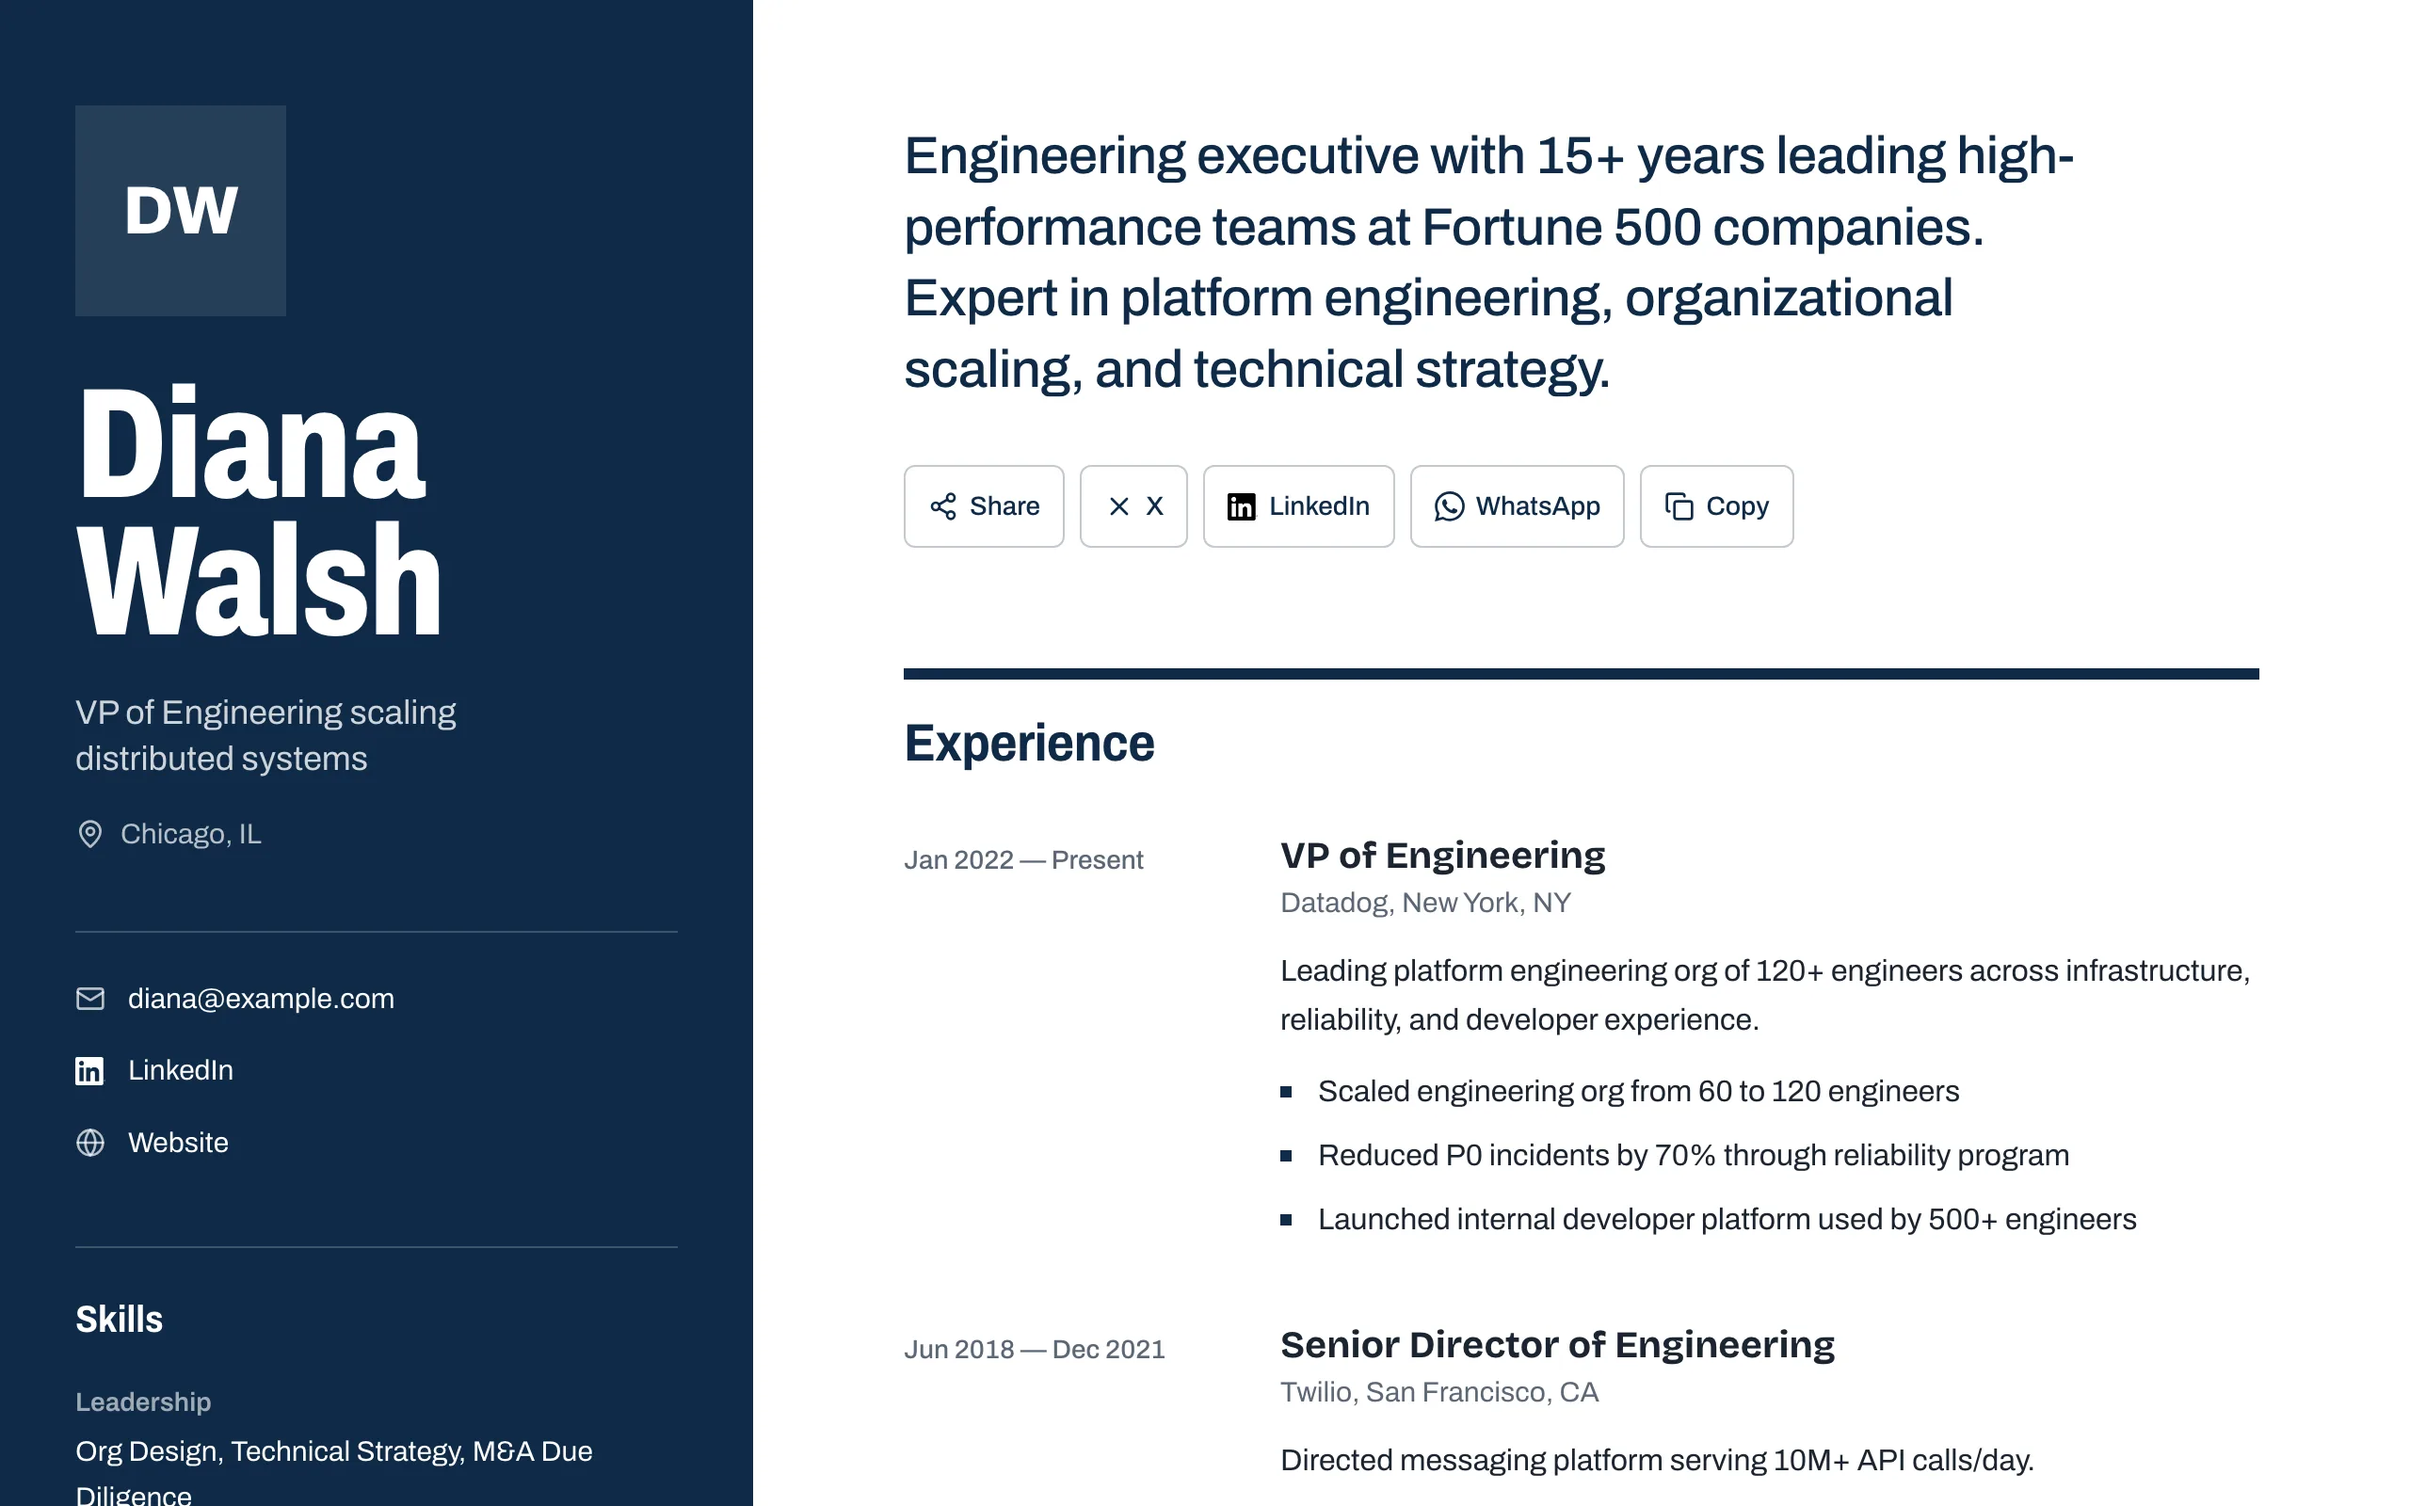
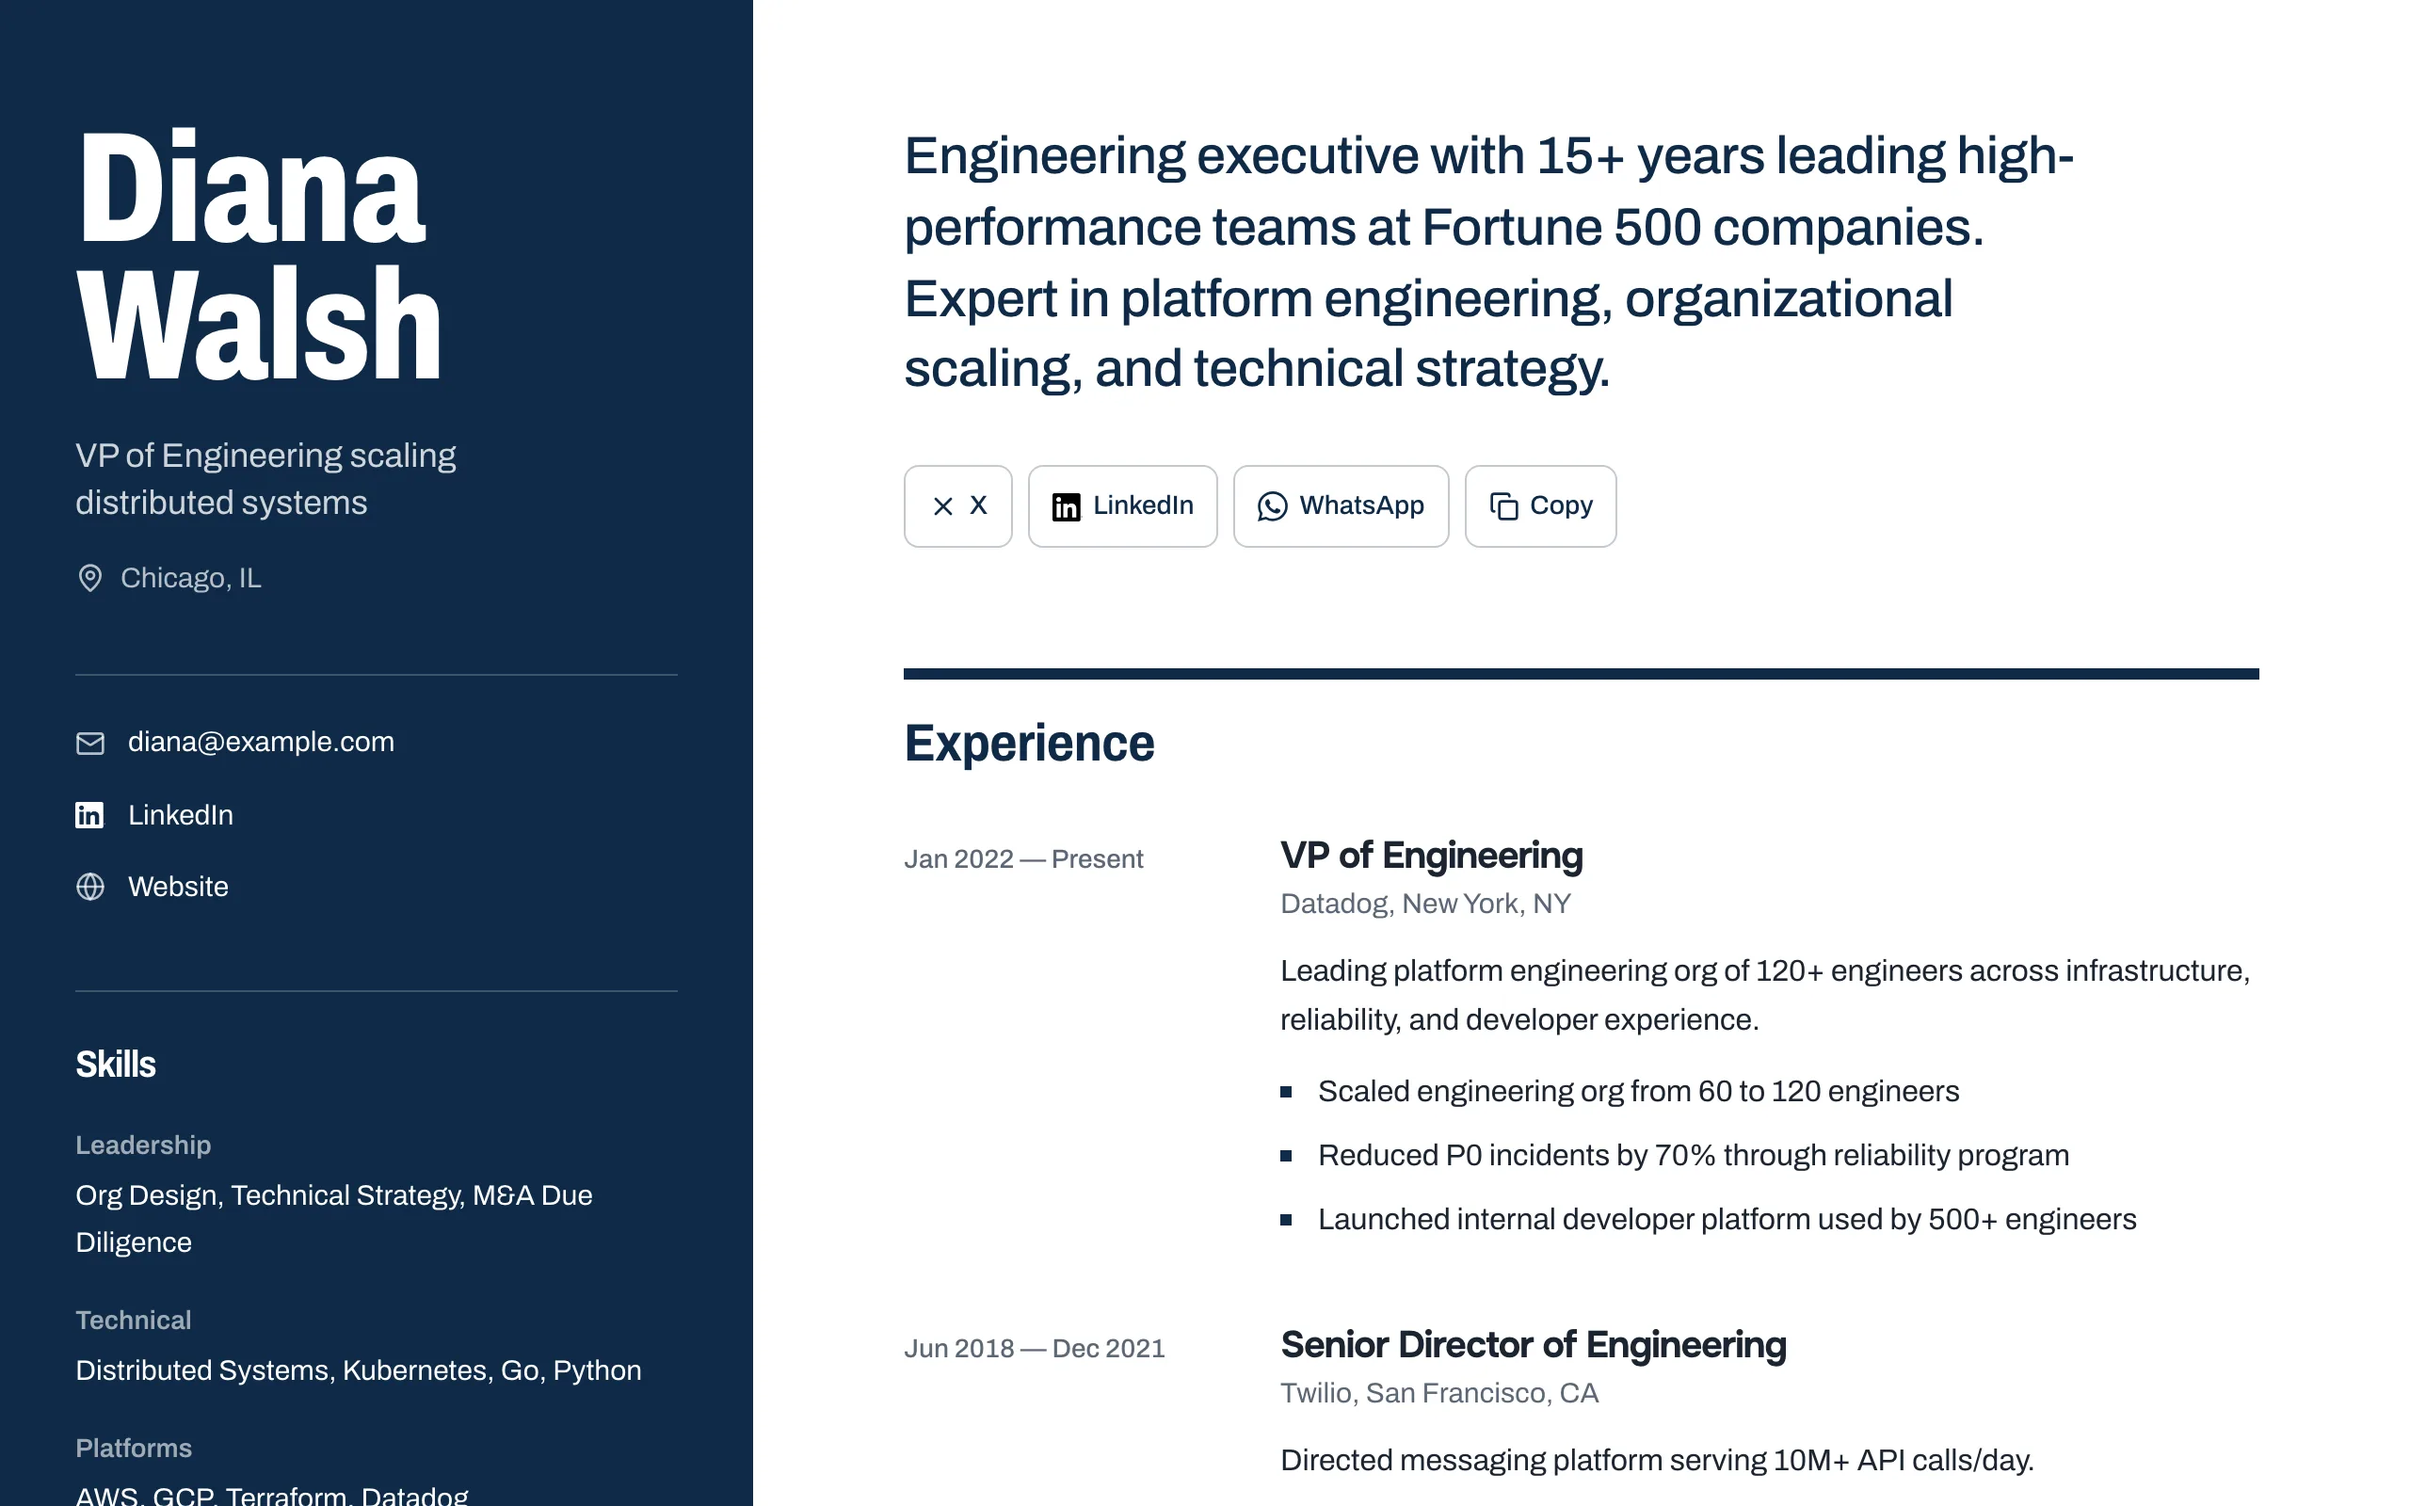
style(templates): drop initials square from bold corporate
The initials square was filler: resumes carry no photo. The name now leads the sidebar and its top lines up with the summary in the main column; a real photo still renders above it.

diff --git a/components/templates/BoldCorporate.tsx b/components/templates/BoldCorporate.tsx
@@ -2,7 +2,7 @@ import { MapPin } from "lucide-react";
 import type React from "react";
 import { ShareBar } from "@/components/ShareBar";
 import { getContactLinks } from "@/lib/templates/contact-links";
-import { formatDateRange, formatYear, getInitials } from "@/lib/templates/helpers";
+import { formatDateRange, formatYear } from "@/lib/templates/helpers";
 import type { TemplateProps } from "@/lib/types/template";
 import { getContactIcon } from "./shared/ContactIcon";
 import { TemplateFontLinks } from "./shared/TemplateFontLinks";
@@ -46,29 +46,23 @@ function Sidebar({ content, avatarUrl }: { content: Content; avatarUrl: string |
 
   return (
     <aside
-      className="px-6 pb-10 pt-10 text-white sm:px-10 lg:px-10 lg:pb-16 lg:pt-14"
+      className="px-6 pb-10 pt-10 text-white sm:px-10 lg:px-10 lg:pb-16 lg:pt-16"
       style={{ backgroundColor: NAVY }}
     >
-      <div className="flex h-24 w-24 items-center justify-center overflow-hidden bg-white/10 lg:h-28 lg:w-28">
-        {avatarUrl ? (
-          <img
-            src={avatarUrl}
-            alt={`Portrait of ${content.full_name}`}
-            width={112}
-            height={112}
-            fetchPriority="high"
-            decoding="async"
-            className="h-full w-full object-cover"
-          />
-        ) : (
-          <span className="bc-display text-4xl font-extrabold" aria-hidden="true">
-            {getInitials(content.full_name)}
-          </span>
-        )}
-      </div>
+      {avatarUrl && (
+        <img
+          src={avatarUrl}
+          alt={`Portrait of ${content.full_name}`}
+          width={112}
+          height={112}
+          fetchPriority="high"
+          decoding="async"
+          className="mb-8 h-24 w-24 object-cover lg:h-28 lg:w-28"
+        />
+      )}
 
       <h1
-        className="bc-display mt-8 text-[clamp(3.25rem,6.5vw,5.25rem)] font-extrabold leading-[0.88] tracking-[-0.015em] break-words hyphens-auto"
+        className="bc-display text-[clamp(3.25rem,6.5vw,5.25rem)] font-extrabold leading-[0.88] tracking-[-0.015em] break-words hyphens-auto"
         style={{ fontStretch: "75%" }}
       >
         {content.full_name}
